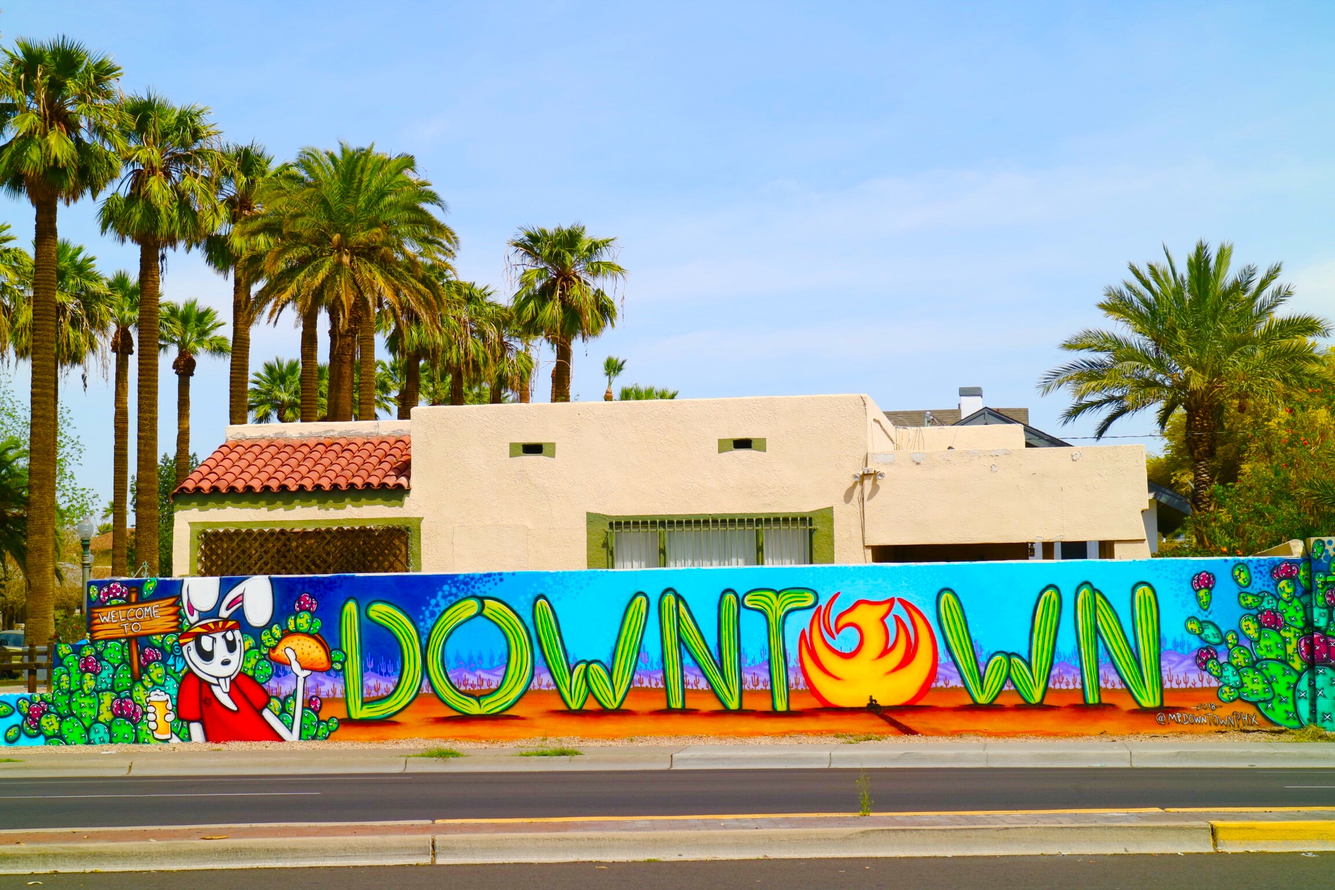
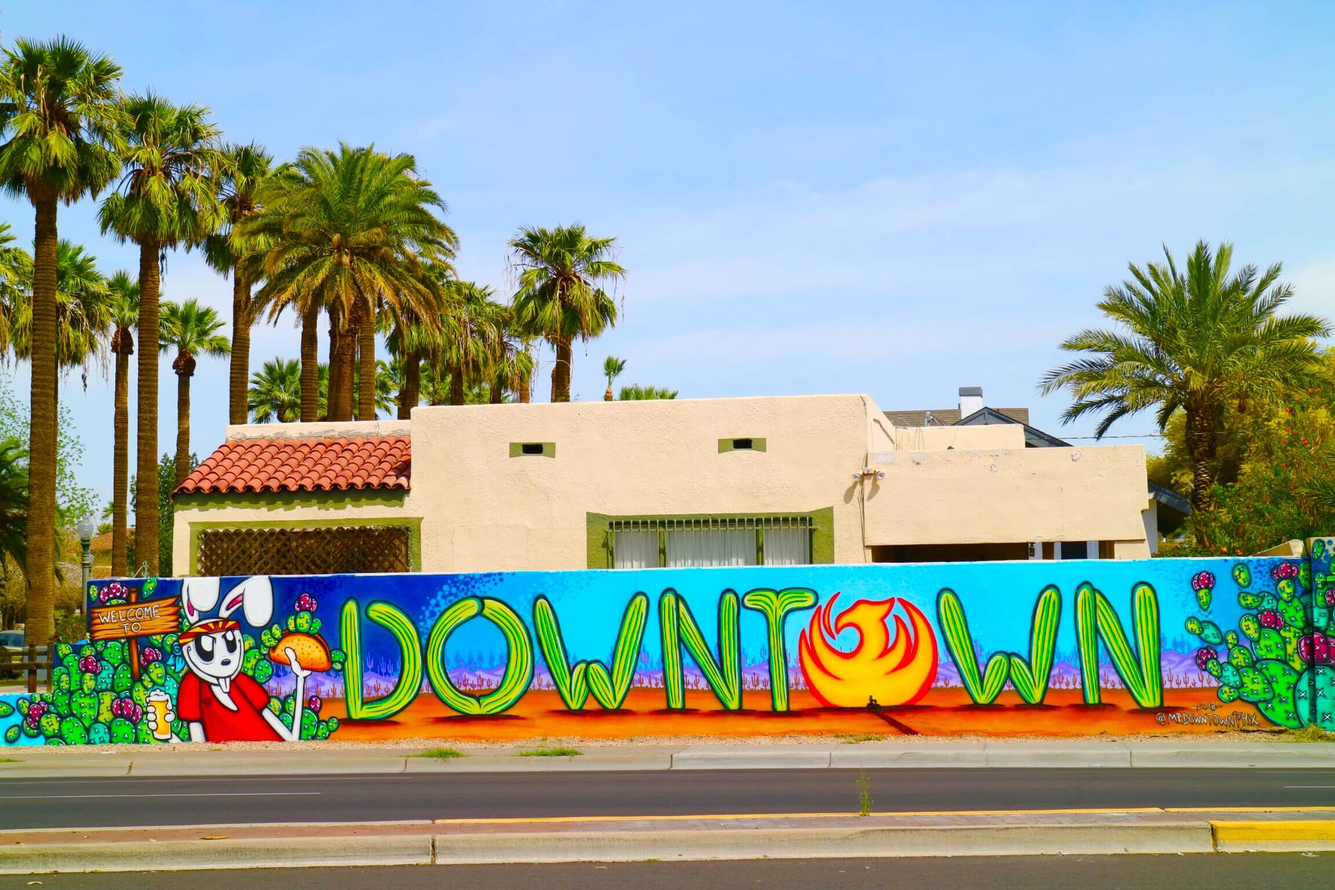
compress of images, removal of non-used images

diff --git a/communityImpact.html b/communityImpact.html
@@ -532,7 +532,7 @@
                 care for our beloved city and state.
               </p>
               <img
-                src="https://images.unsplash.com/photo-1606857521015-7f9fcf423740?ixlib=rb-4.0.3&ixid=MnwxMjA3fDB8MHxwaG90by1wYWdlfHx8fGVufDB8fHx8&auto=format&fit=crop&w=1344&h=1104&q=80"
+                src="./assets/images/cleaning-two.jpg"
                 alt=""
                 class="mt-16 mb-16 aspect-[6/5] w-full rounded-2xl bg-gray-50 object-cover lg:aspect-auto lg:h-[34.5rem]"
               />

diff --git a/index.html b/index.html
@@ -170,7 +170,7 @@
       <main class="isolate">
         <div class="relative isolate overflow-hidden pt-14">
           <img
-            src="./assets/images/jeshoots-com-__ZMnefoI3k-unsplash.jpg"
+            src="./assets/images/spray-bottle-yellow.jpg"
             alt=""
             class="absolute inset-0 -z-10 h-full w-full object-cover"
           />
